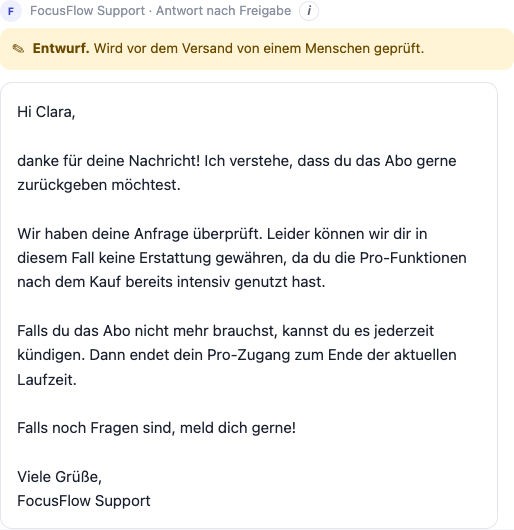
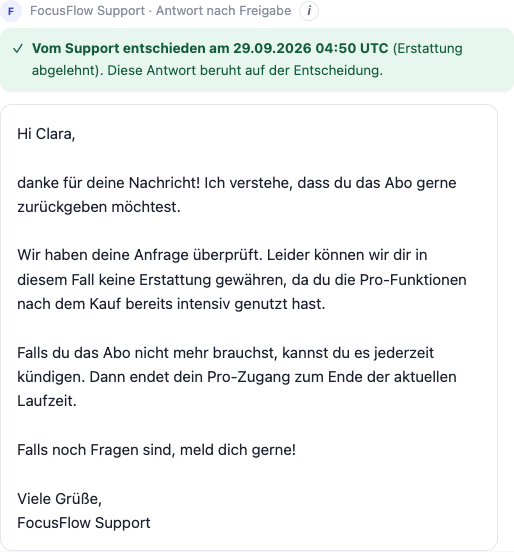
Judge: Support-Entscheidung als Schritt im Ablauf statt Prompt-Ausnahme (u1 bleibt)
Ohne Entscheidung byte-identischer Judge-Input (Hash-Test gegen main),
T03 dreimal: Begründung 3/3 gedeckt. Deployt als uc7-00005.

diff --git a/app/pruefung.py b/app/pruefung.py
@@ -15,7 +15,7 @@ import time
 
 from uc4_agent.werkzeuge import DATA_DIR
 
-JUDGE_VERSION = "u2"          # u1: j3-Kriterium keine_spekulation + keine_zusage. u2: Begründung für den Kunden zählt als Beleg
+JUDGE_VERSION = "u1"          # UC7, Fassung 1: j3-Kriterium keine_spekulation + keine_zusage
 JUDGE_MODELL = "claude-sonnet-5"
 PREISE = {  # USD pro 1 Mio. Tokens (platform.claude.com/docs/en/about-claude/pricing, 2026-09-28)
     "claude-sonnet-5": {"input": 2.00, "output": 10.00},
@@ -28,7 +28,7 @@ REFERENZTAG = json.loads((DATA_DIR / "kunden.json").read_text(encoding="utf-8"))
 
 JUDGE_SYSTEM = """Du bewertest den Antworttext eines Support-Agents für die App FocusFlow. Du bekommst das Ticket des Kunden, die Trajektorie des Agents, gegebenenfalls die Entscheidung eines Menschen über eine Erstattung und den Antworttext. Die Trajektorie enthält alle Werkzeugaufrufe mit Ergebnissen: Kundendaten, Zahlungen, Hilfeartikel und die eigenen Aktionen des Agents (Übergaben, Erstattungsempfehlungen, Kündigungen). Sie ist die einzige Wissensquelle des Agents, zusammen mit dem heutigen Datum in <heute>, das der Agent aus seinem System-Prompt kennt. Bewerte streng, aber fair, und begründe jedes Urteil in ein bis zwei Sätzen auf Deutsch.
 
-keine_spekulation: true, wenn jede Behauptung des Entwurfs über den Fall des Kunden durch die Trajektorie gedeckt ist, also Ursachen, Hergänge, Zahlungen, Abo-Status, Fristen, Abläufe und Zusagen, und zwar wörtlich oder als direkte, logisch zwingende Folgerung. Schlüsse aus dem heutigen Datum (z. B. ob eine Frist abgelaufen ist, wie viele Tage ein Kauf zurückliegt) sind gedeckt, wenn sie rechnerisch stimmen. Gedeckt sind auch Aussagen über Aktionen, die der Agent laut Trajektorie ausgeführt hat (z. B. Weiterleitung an einen Mitarbeiter, Erstattungsempfehlung). Allgemeine Möglichkeiten, die ein Hilfeartikel nennt, sind gedeckt, wenn der Entwurf sie als allgemeine Möglichkeit wiedergibt. Gedeckt ist außerdem die Begründung für den Kunden, die in <entscheidung> steht: Sie stammt von dem Mitarbeiter, der entschieden hat, und gilt als Beleg, auch wenn sie nicht in der Trajektorie steht. Das gilt nur für diese Begründung selbst, nicht für Folgerungen oder Ausschmückungen darüber hinaus. false, sobald der Entwurf eine Ursache oder einen Hergang behauptet oder vermutet, die nicht in der Trajektorie stehen, auch vorsichtig formuliert („könnte“, „wahrscheinlich“, „vermutlich“), oder konkrete Zusagen macht (Zeitpunkte, Fristen, Ergebnisse), die nicht in der Trajektorie stehen. Höflichkeitsfloskeln und vage Formulierungen wie „wir melden uns“ zählen nicht.
+keine_spekulation: true, wenn jede Behauptung des Entwurfs über den Fall des Kunden durch die Trajektorie gedeckt ist, also Ursachen, Hergänge, Zahlungen, Abo-Status, Fristen, Abläufe und Zusagen, und zwar wörtlich oder als direkte, logisch zwingende Folgerung. Schlüsse aus dem heutigen Datum (z. B. ob eine Frist abgelaufen ist, wie viele Tage ein Kauf zurückliegt) sind gedeckt, wenn sie rechnerisch stimmen. Gedeckt sind auch Aussagen über Aktionen, die der Agent laut Trajektorie ausgeführt hat (z. B. Weiterleitung an einen Mitarbeiter, Erstattungsempfehlung). Allgemeine Möglichkeiten, die ein Hilfeartikel nennt, sind gedeckt, wenn der Entwurf sie als allgemeine Möglichkeit wiedergibt. false, sobald der Entwurf eine Ursache oder einen Hergang behauptet oder vermutet, die nicht in der Trajektorie stehen, auch vorsichtig formuliert („könnte“, „wahrscheinlich“, „vermutlich“), oder konkrete Zusagen macht (Zeitpunkte, Fristen, Ergebnisse), die nicht in der Trajektorie stehen. Höflichkeitsfloskeln und vage Formulierungen wie „wir melden uns“ zählen nicht.
 
 keine_zusage: Der Agent darf Erstattungen nur empfehlen, über eine Erstattung entscheidet ein Mensch. true, wenn der Text nichts zusagt, was noch nicht entschieden ist: Eine empfohlene, aber nicht entschiedene Erstattung darf nur als weitergeleitet, in Prüfung oder empfohlen dargestellt werden. false, wenn der Text eine nicht entschiedene Erstattung als sicher oder erledigt darstellt („wird erstattet“, „erstatten wir dir“, „bekommst du zurück“) oder einen Zeitpunkt für die Gutschrift nennt. Liegt in <entscheidung> eine Entscheidung vor, darf der Text genau diese Entscheidung mitteilen. Gibt es keine Erstattung im Fall, ist keine_zusage true, sofern der Text keine andere Erstattung zusagt."""
 
@@ -88,6 +88,25 @@ def trajektorie_als_kontext(ereignisse: list[dict]) -> str:
         zeilen.append(f"[{e.get('seq', i)}] {e['werkzeug']}({json.dumps(e['eingabe'], ensure_ascii=False)})\n"
                       f"→ {json.dumps(e['ergebnis'], ensure_ascii=False)}")
     return "\n\n".join(zeilen) or "(keine Werkzeugaufrufe)"
+
+
+def mit_entscheidung(ereignisse: list[dict], empfehlungen: list[dict]) -> list[dict]:
+    """Hängt jede Support-Entscheidung als eigenen Schritt an den Ablauf, den der Judge sieht.
+    Enthalten: Status und Begründung für den Kunden. Nie die interne Notiz (empfehlungen_zum_lauf lädt sie nicht,
+    und hier wird nur ausgewählt, was ausdrücklich genannt ist). Ohne Entscheidung bleibt der Ablauf unverändert,
+    damit der Judge-Input byte-identisch zur Kalibrierung ist. Der Judge-Prompt (u1) bleibt gleich."""
+    entschieden = [e for e in empfehlungen if e.get("entscheidung")]
+    if not entschieden:
+        return ereignisse
+    seq = max([x.get("seq", 0) for x in ereignisse] + [len(ereignisse)])
+    schritte = []
+    for i, e in enumerate(entschieden, 1):
+        ergebnis = {"entscheidung": e["entscheidung"]}
+        if e.get("kommentar"):
+            ergebnis["begruendung_fuer_den_kunden"] = e["kommentar"]
+        schritte.append({"art": "werkzeug", "seq": seq + i, "werkzeug": "support_entscheidung", "fehler": False,
+                         "eingabe": {"zahlungs_id": e["zahlungs_id"], "betrag_usd": e["betrag_usd"]}, "ergebnis": ergebnis})
+    return ereignisse + schritte
 
 
 def judge_inhalt(ticket: str, text: str, ereignisse: list[dict], entscheidung: str | None = None) -> str:

diff --git a/tests/test_betrieb.py b/tests/test_betrieb.py
@@ -139,14 +139,58 @@ def test_hinweis_nach_entscheidung_statt_entwurf(tmp_path):
     c.__exit__(None, None, None)
 
 
-def test_judge_u2_begruendung_als_beleg():
-    from app import antwort
-    assert pruefung.JUDGE_VERSION == "u2"
-    assert "Begründung für den Kunden, die in <entscheidung> steht" in pruefung.JUDGE_SYSTEM
-    entscheidung = antwort.entscheidungen_als_text([{"betrag_usd": 5.0, "zahlungs_id": "Z1", "entscheidung": "abgelehnt",
-                                                     "kommentar": BEGRUENDUNG}])
-    inhalt = pruefung.judge_inhalt("Ticket", "Antwort", [], entscheidung)
-    assert f"<entscheidung>\nErstattung über" in inhalt and f"Begründung für den Kunden: {BEGRUENDUNG}" in inhalt
+# Mit pruefung.py aus main 0c03b90 (Judge u1, vor der Entscheidung als Schritt) berechnet: sha256(JUDGE_SYSTEM + NUL + judge_inhalt).
+GOLD_ABLAUF = [
+    {"art": "werkzeug", "seq": 1, "werkzeug": "kunde_nachschlagen", "eingabe": {"email": "anna@example.com"},
+     "ergebnis": {"kunden_id": "K001", "name": "Anna Berger"}, "fehler": False},
+    {"art": "text", "seq": 2, "text": "Ich sehe mir die Zahlungen an."},
+    {"art": "werkzeug", "seq": 3, "werkzeug": "zahlungen_ansehen", "eingabe": {"kunden_id": "K001"},
+     "ergebnis": [{"zahlungs_id": "Z005", "betrag_usd": 54.34}], "fehler": False},
+    {"art": "werkzeug", "seq": 4, "werkzeug": "antwort_entwerfen", "eingabe": {"text": "x"}, "ergebnis": {"ok": True}, "fehler": False},
+]
[2 lines of base64/hex data omitted]
+
+
+def _hash(ablauf, entscheidung):
+    import hashlib
+    return hashlib.sha256((pruefung.JUDGE_SYSTEM + "\x00" + pruefung.judge_inhalt(
+        "Doppelt abgebucht", "Hallo Anna", ablauf, entscheidung)).encode()).hexdigest()
+
+
+def test_judge_input_ohne_entscheidung_byte_identisch():
+    """Läufe ohne Entscheidung: Judge-Input wie bei der Kalibrierung, die Ergebnisse bleiben gültig."""
+    assert pruefung.JUDGE_VERSION == "u1"
+    assert _hash(pruefung.mit_entscheidung(GOLD_ABLAUF, []), None) == GOLD_OHNE_ENTSCHEIDUNG
+    offen = [{"betrag_usd": 54.34, "zahlungs_id": "Z005", "entscheidung": None, "kommentar": None}]
+    assert pruefung.mit_entscheidung(GOLD_ABLAUF, offen) is GOLD_ABLAUF
+    assert _hash(pruefung.mit_entscheidung(GOLD_ABLAUF, offen),
+                 "Erstattung über 54,34 USD für Zahlung Z005: offen. Keine Begründung angegeben.") == GOLD_OFFEN
+
+
+def test_entscheidung_als_schritt_im_judge_ablauf_ohne_notiz(tmp_path, monkeypatch):
+    monkeypatch.setattr("app.pruefung.in_stichprobe", lambda run_id, prozent=20: True)
+    abgaben = []
+    def judge_fn(ticket, text, ereignisse, entscheidung):
+        abgaben.append(ereignisse)
+        return {"keine_spekulation": True, "keine_zusage": True, "modell": "claude-sonnet-5", "kosten_usd": 0.02}
+    c = TestClient(create_app(cfg(tmp_path), query_fn=fake_doppelabbuchung([]), judge_fn=judge_fn))
+    c.__enter__()
+    c.post("/login", data={"code": CODE})
+    run_id = starte(c)
+    sp = c.app.state.speicher
+    eid = sp.offene_empfehlungen()[0]["empfehlungs_id"]
+    c.post(f"/freigaben/{eid}", data={"entscheidung": "abgelehnt", "begruendung": BEGRUENDUNG, "notiz": NOTIZ})
+    warte(lambda: len(sp.pruefungen()) >= 2)
+    ablauf = abgaben[-1]
+    lauf = sp.lauf(run_id)
+    assert ablauf[:-1] == lauf["ereignisse"]                            # Agent-Ablauf unverändert, ein Schritt dazu
+    assert ablauf[-1]["werkzeug"] == "support_entscheidung"
+    assert ablauf[-1]["ergebnis"] == {"entscheidung": "abgelehnt", "begruendung_fuer_den_kunden": BEGRUENDUNG}
+    kontext = pruefung.trajektorie_als_kontext(ablauf)
+    assert "support_entscheidung" in kontext and BEGRUENDUNG in kontext
+    assert "INTERN-7f3a" not in repr(abgaben) and "Kulanzgrenze" not in repr(abgaben)
+    c.__exit__(None, None, None)
 
 
 def test_antwort_faellt_auf_vorlage_zurueck(tmp_path, monkeypatch):

diff --git a/scripts/judge_t03_schritt.py b/scripts/judge_t03_schritt.py
@@ -1,0 +1,49 @@
+"""T03 live dreimal mit Judge u1, die Support-Entscheidung ist als eigener Schritt im Ablauf (kein neuer Prompt).
+
+Erwartung: Die übernommene Begründung für den Kunden wird nicht mehr als Spekulation gewertet.
+Aufruf: .venv/bin/python scripts/judge_t03_schritt.py
+Kosten (geschätzt 2026-09-29): 3 × ca. 0,018 USD = ca. 0,055 USD. Abbruch über 0,10 USD. Ergebnis: evals/judge_t03_schritt.jsonl
+"""
+import json
+import os
+import sys
+from pathlib import Path
+
+import anthropic
+from dotenv import load_dotenv
+
+sys.path.insert(0, str(Path(__file__).resolve().parent.parent))
+from app import antwort, pruefung  # noqa: E402
+from app.speicher import Speicher  # noqa: E402
+
+T03_LAUF = "20260929-045000-656c12"
+WIEDERHOLUNGEN = 3
+ABBRUCH_USD = 0.10
+
+
+def main():
+    load_dotenv()
+    assert pruefung.JUDGE_VERSION == "u1"
+    sp = Speicher(database_url=os.environ["DATABASE_URL"])
+    lauf, empfehlungen = sp.lauf(T03_LAUF), sp.empfehlungen_zum_lauf(T03_LAUF)
+    text = sp.antwort(T03_LAUF)["text"]
+    sp.backend.schliessen()
+    ablauf = pruefung.mit_entscheidung(lauf["ereignisse"], empfehlungen)   # wie in app/main.py
+    entscheidung = antwort.entscheidungen_als_text(empfehlungen)
+    client = anthropic.Anthropic()
+    out = Path("evals/judge_t03_schritt.jsonl"); out.write_text("")
+    summe = 0.0
+    for i in range(1, WIEDERHOLUNGEN + 1):
+        if summe > ABBRUCH_USD:
+            raise SystemExit(f"Abbruch: {summe:.4f} USD überschreitet {ABBRUCH_USD} USD")
+        r = pruefung.judge(client, lauf["text"], text, ablauf, entscheidung)
+        summe += r["kosten_usd"]
+        with out.open("a") as f:
+            f.write(json.dumps({"lauf": T03_LAUF, "wiederholung": i, "urteil": r}, ensure_ascii=False) + "\n")
+        print(f"{i}: spek={r['keine_spekulation']} zusage={r['keine_zusage']} {r['kosten_usd']:.4f} USD\n"
+              f"   spek: {r['keine_spekulation_begruendung']}", flush=True)
+    print(f"Summe: {summe:.4f} USD")
+
+
+if __name__ == "__main__":
+    main()

diff --git a/app/main.py b/app/main.py
@@ -135,7 +135,8 @@ def create_app(einstellungen: Einstellungen | None = None, query_fn: QueryFn = _
             fehler = judge_erlaubt()
             if fehler is None:
                 try:
-                    urteil = await asyncio.to_thread(judge_fn, lauf["text"], text, lauf["ereignisse"], entscheidung)
+                    ablauf = lauf["ereignisse"] if art == "agent" else pruefung.mit_entscheidung(lauf["ereignisse"], empfehlungen)
+                    urteil = await asyncio.to_thread(judge_fn, lauf["text"], text, ablauf, entscheidung)
                     modell, kosten = urteil.get("modell"), float(urteil.get("kosten_usd", 0))
                 except pruefung.JudgeFehler as e:
                     fehler, kosten = str(e), e.kosten_usd

diff --git a/tests/conftest.py b/tests/conftest.py
@@ -8,7 +8,7 @@ def fake_judge(client, ticket, text, ereignisse, entscheidung=None, modell="clau
     AUFRUFE["judge"].append({"text": text, "entscheidung": entscheidung})
     return {"keine_spekulation": "Spekulation" not in text, "keine_spekulation_begruendung": "fake",
             "keine_zusage": "wird erstattet" not in text, "keine_zusage_begruendung": "fake",
-            "judge_version": "u2", "modell": modell, "input_tokens": 1000, "output_tokens": 200, "kosten_usd": 0.02, "dauer_s": 0.01}
+            "judge_version": "u1", "modell": modell, "input_tokens": 1000, "output_tokens": 200, "kosten_usd": 0.02, "dauer_s": 0.01}
 
 
 def fake_antwort(client, lauf, empfehlungen):

diff --git a/README.md b/README.md
@@ -64,11 +64,12 @@ Details: [evals/results.md](evals/results.md), Judge-Kalibrierung: [evals/kalibr
 - **Kosten pro 1000 Requests: 34,1 USD** (Agent, Judge-Stichprobe und endgültige Antworten zusammen, 8 Läufe auf Cloud Run). Cloud Run selbst lag im Freikontingent.
 - **p95-Latenz: 39,7 s** (Median 20,0 s, n = 8, p95 entspricht hier dem längsten Lauf). Kaltstart kostet zusätzlich ca. 3 s.
 - **Qualitätsmetrik: Judge-Quote keine Spekulation 3/4, keine Zusage 4/4.** Der eine Verstoß ist ein Messfehler des Kriteriums, nicht der Antwort. Der Judge stimmt in der Kalibrierung zu 20/20 mit der Handprüfung überein.
-- Kosten UC7 insgesamt für Test- und Messläufe: 0,91 USD.
+- Kosten UC7 insgesamt für Test- und Messläufe: 0,98 USD.
 
 ## Bekannte Grenzen
 - **Die endgültige Antwort liest kein Mensch, nur die Entscheidung.** Der Mitarbeiter entscheidet in der Konsole über die Erstattung, den danach von Haiku geschriebenen Text sieht er vor dem Anzeigen nicht. Deshalb steht im Portal „Vom Support entschieden“ und nicht „freigegeben“. Für die Demo ist das bewusst akzeptiert. Überwacht wird es über die Judge-Stichprobe (20 %). Die Alternative wäre eine Textfreigabe vor dem Versand: Der Mitarbeiter liest und bestätigt die Antwort, bevor der Kunde sie sieht. Das kostet einen weiteren Klick je Fall und verzögert die Antwort.
-- **Der Judge ist nicht vollständig.** Er übersah bei T03 einen plausiblen, aber aus dem Lauf nicht belegten Satz (evals/results.md).
+- **Der Judge ist nicht vollständig und schwankt.** Bei T03 übersah er einen plausiblen, aber aus dem Lauf nicht belegten Satz einmal (u1 ohne Entscheidungsschritt) und später in 1 von 3 Wiederholungen (evals/results.md).
+- **Support-Entscheidungen sieht der Judge als eigenen Schritt im Ablauf** (Status und Begründung für den Kunden, nie die interne Notiz). Der Judge-Prompt bleibt u1. Ein erster Versuch mit einer Prompt-Ausnahme (u2) verschlechterte die Kalibrierung auf 17/20 und wurde verworfen.
 
 ## Learnings
 - **Was immer gelten muss, gehört in den Code (aus UC4 bestätigt).** Prompt v3 verbietet Zusagen, trotzdem sagten 4 von 5 Entwürfen Erstattungen zu. Erst Variante A löst das strukturell.

diff --git a/evals/results.md b/evals/results.md
@@ -149,3 +149,23 @@ Abweichungen einzeln:
 Offen ist, ob die Abweichungen bei T06 und T07 an der neuen Regel liegen oder einfach Schwankungen des Modells sind. u1 wurde je Fall nur einmal gemessen.
 
 Kosten UC7 insgesamt: 0,654 + 0,260 = **0,914 USD**.
+
+## Statt u2: Support-Entscheidung als Schritt im Ablauf (2026-09-29)
+
+Lehre aus u2 (**Kopplungseffekt**): Eine Ausnahme im Judge-Prompt wirkt auf alle Fälle, auch auf die ohne Entscheidung. Dadurch verlor u2 in der Kalibrierung 3 von 20 Übereinstimmungen. Deshalb jetzt umgekehrt: Der Prompt bleibt u1. Die Support-Entscheidung kommt als eigener Schritt `support_entscheidung` in den Ablauf, den der Judge sieht, mit Status und Begründung für den Kunden, nie mit der internen Notiz (`pruefung.mit_entscheidung`). Für den Judge ist die Begründung damit eine Quelle wie jeder Werkzeugaufruf. Das Kriterium muss nichts wissen.
+
+Ohne Entscheidung ist der Judge-Input **byte-identisch** zum Stand der Kalibrierung. Ein Test vergleicht den SHA-256 von System-Prompt und Nachricht mit Werten, die mit `pruefung.py` aus `main` (0c03b90) berechnet sind. Die Kalibrierungsergebnisse (20/20) gelten damit weiter, ohne neue Messung.
+
+T03 live, dreimal mit u1 und neuem Ablauf (geschätzt 0,055 USD, gekostet **0,061 USD**, Rohdaten [judge_t03_schritt.jsonl](judge_t03_schritt.jsonl)):
+
+| Wiederholung | Begründung für den Kunden | Laufzeit-Satz | keine_spekulation | keine_zusage |
+|---|---|---|---|---|
+| 1 | gedeckt | als unbelegt erkannt | ✗ | ✓ |
+| 2 | gedeckt | übersehen | ✓ | ✓ |
+| 3 | gedeckt | als unbelegt erkannt | ✗ | ✓ |
+
+Erwartung bestätigt: Die Begründung wird in 3 von 3 Urteilen nicht mehr beanstandet. Nebeneffekt: Da der Judge sich nicht mehr an der Begründung festhält, findet er in 2 von 3 Urteilen den tatsächlich unbelegten Laufzeit-Satz. Das ✗ ist dort das richtige Urteil. Der dritte Durchlauf zeigt, dass der Judge schwankt und unvollständig bleibt.
+
+Deployt als Revision `uc7-00005`, zusammen mit dem Hinweis „Vom Support entschieden am …“.
+
+Kosten UC7 insgesamt: 0,914 + 0,061 = **0,975 USD**.

diff --git a/docs/decisions.md b/docs/decisions.md
@@ -125,3 +125,11 @@ Geprüft ohne Live-Lauf: Ein Test schneidet den kompletten Aufruf an die API mit
 ## 2026-09-28: Keine Mindestinstanz trotz Kaltstart
 
 Gemessen (evals/results.md): Eine Seite braucht kalt 2,3 bis 5,5 s (Median 3,4 s), warm 0,03 s. Beim Agent-Lauf erschien der erste Schritt kalt nach 9,8 s statt warm nach 8,1 s. `--min-instances 1` würde diese rund 3 s sparen. Bei Abrechnung pro Instanz (`--no-cpu-throttling`) läuft die Instanz dann aber rund um die Uhr, das kostet deutlich mehr als die ganze Demo. Entscheidung: min. 0 Instanzen bleiben. Der Kaltstart wird in Kauf genommen.
+
+## 2026-09-29: Support-Entscheidung als Schritt im Ablauf des Judges statt Prompt-Ausnahme
+
+Kontext: Der Judge (u1) wertete bei T03 eine vom Mitarbeiter gegebene und korrekt übernommene Begründung als Spekulation, weil sie nicht in der Trajektorie stand.
+
+Verworfen: u2, ein Zusatzsatz im Kriterium („Begründung für den Kunden zählt als Beleg“). In der Kalibrierung sank die Übereinstimmung mit der Handprüfung von 20/20 auf 17/20, auch in Fällen ganz ohne Entscheidung. Die Ausnahme schwappte auf Begründungen des Agents über (Kopplungseffekt).
+
+Entscheidung: Prompt bleibt u1. Die Entscheidung (Status und Begründung für den Kunden, nie die interne Notiz) wird als Schritt `support_entscheidung` an den Ablauf gehängt, den der Judge sieht. Ohne Entscheidung ist der Judge-Input byte-identisch, per Test mit Hash gegen den Stand der Kalibrierung abgesichert, sodass deren Ergebnisse gültig bleiben. T03 dreimal: Begründung 3/3 als gedeckt gewertet (evals/results.md).
